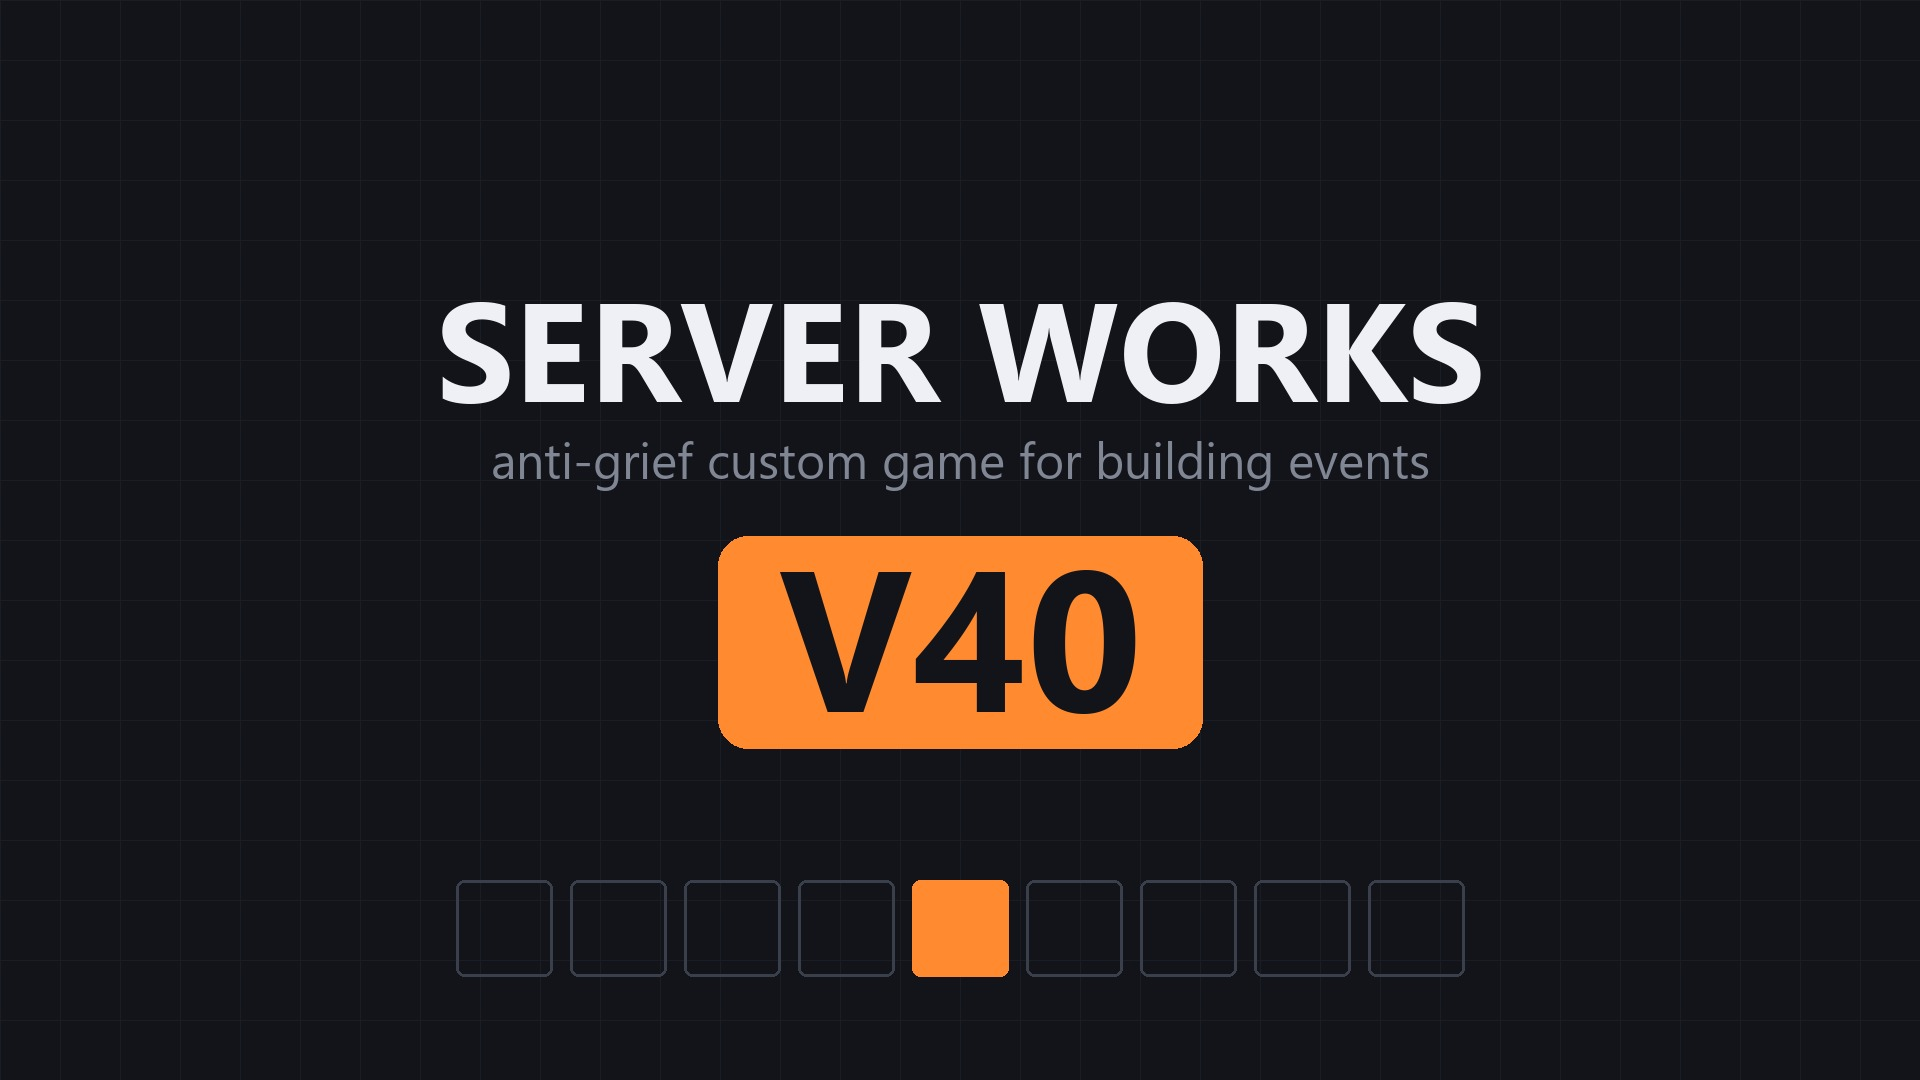
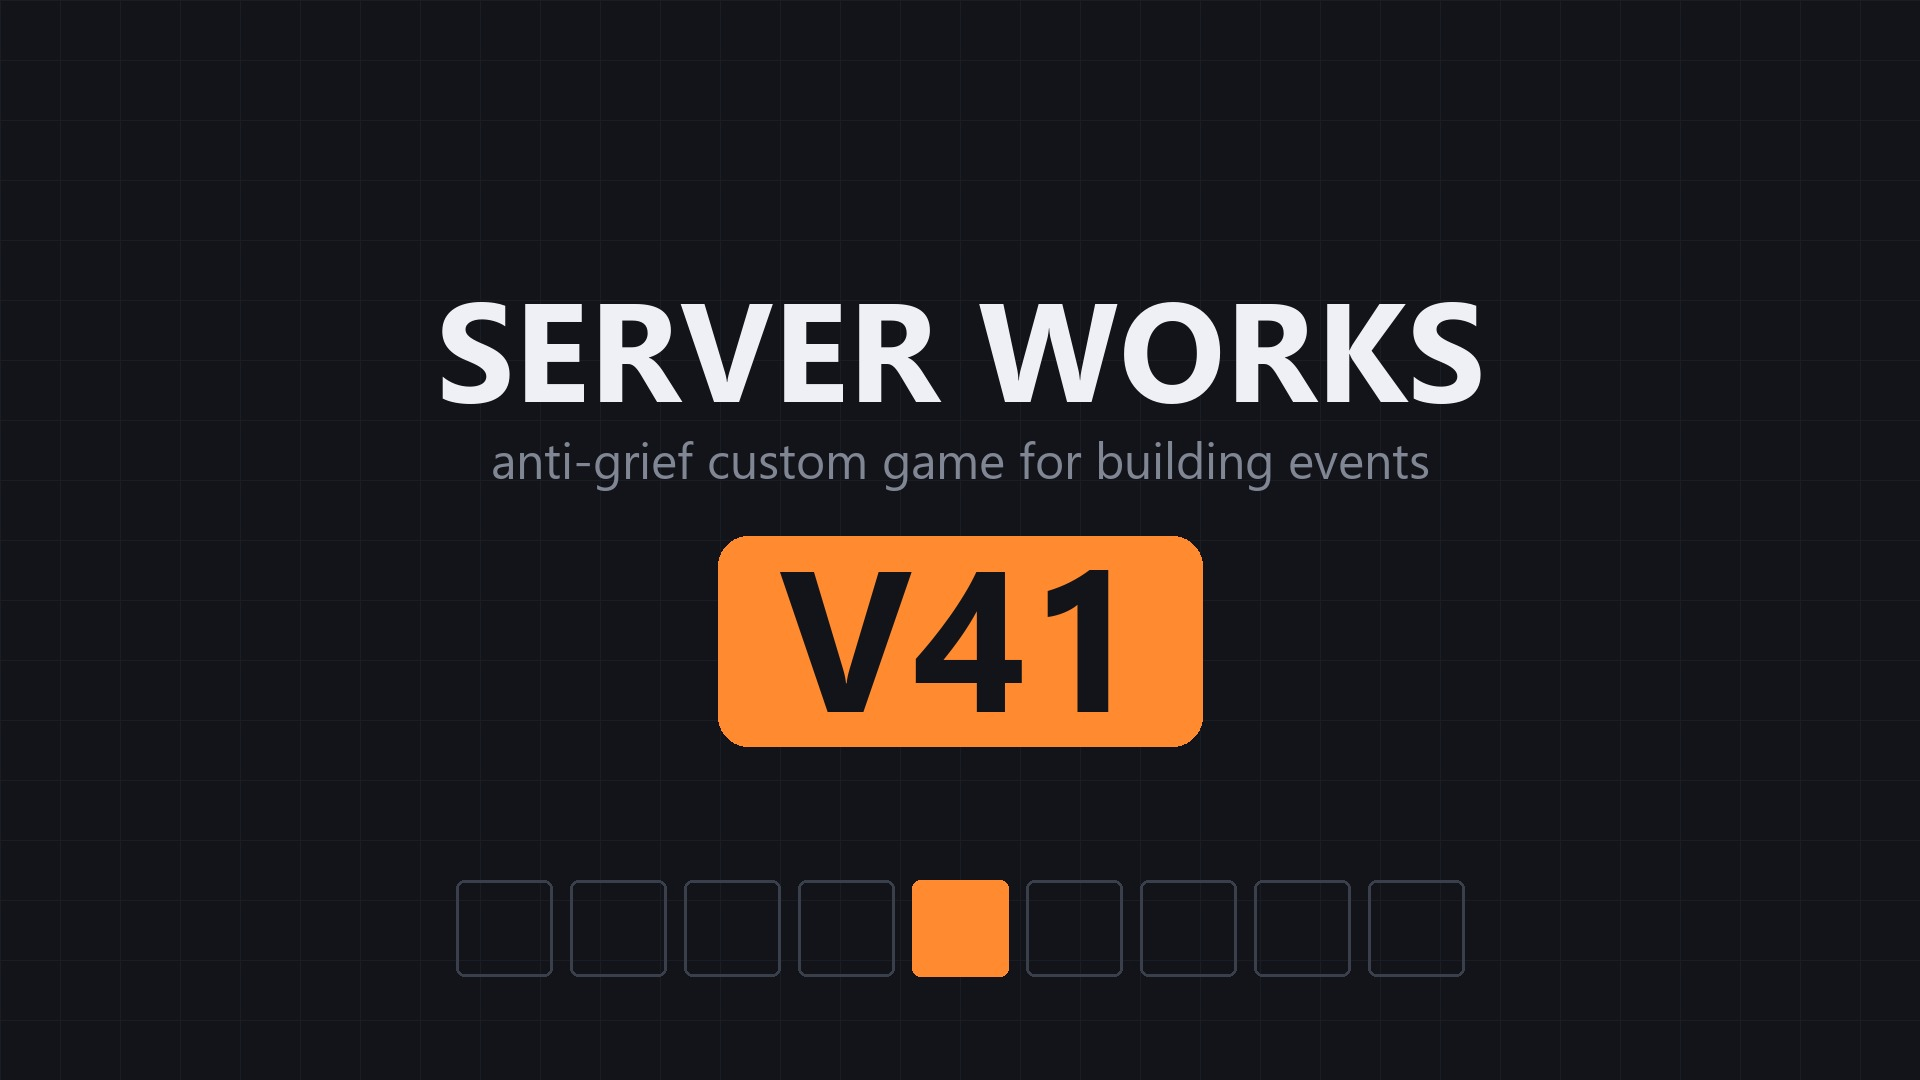
V41: buffer time never ran, and your blocks were mistaken for the city
"whatever the block is metal 2 or concrete it counts as part of the city"

The city's top layer is block z = DECK_Z, world z 1.00..1.25. People build
ON it, so their first block is 1.25..1.50. And shape.worldPosition might be
the minimum corner or the centre -- nothing in the base game settles which.
The threshold was 1.30, so under the min-corner reading a player's first
block sat at exactly 1.25 and was classed as city floor: the cleaner
refused to delete it and CLEAR CITY would have taken it.

Plots.CITY_CEILING is now (DECK_Z + 0.75) * BLOCK = 1.1875, three quarters
of the way up our own layer, which answers the same whichever way
worldPosition is meant. The check tests both readings against all three
materials, and asserts CleanerTool's restated copy has not drifted.

"please make as I said to the buffer time. because it doesnt work this way
yet" -- it did not, and V34's check passed anyway, which is the more useful
half of this.

V34 added the polish profile and pointed buffer at it. The check read the
PROFILES table and asserted polish was paintable, usable and not buildable.
All true. But sv_applyEventPhase sets buildopen = false for every phase
that is not build, and the resolver's blanket fired first and returned
locked. Buffer was identical to prep: the profile was correct and
unreachable.

So buildopen no longer overrides a mode that already denies building
(Protection.sv_modeClosesBuilding), and the check now runs the RESOLVER
[…]

Changed region(s): [[0.375, 0.5194, 0.625, 0.7028]]

diff --git a/dev/test_logic.py b/dev/test_logic.py
@@ -585,6 +585,109 @@ def the_city_floor_is_never_liftable_or_dynamic():
     assert len(returns) >= 5, f"only found {len(returns)} return paths -- parse is wrong"
 
 
+def buffer_time_actually_reaches_the_polish_profile():
+    """Having the right profile is not the same as a body ever getting it.
+
+    REPORTED: "please make as I said to the buffer time. because it doesnt work
+    this way yet."
+
+    V34 added the polish profile and pointed the buffer phase at it, and the
+    check for that passed -- because it only checked the TABLE. What actually
+    happened in game: sv_applyEventPhase sets buildopen = false for every phase
+    that is not build, and the resolver's blanket
+
+        if Settings.Get( "buildopen" ) == false then return false end
+
+    fired FIRST and returned `locked`. Buffer was identical to prep. The polish
+    profile was correct and unreachable.
+
+    So this runs the resolver itself, which is the only thing that could have
+    caught it.
+    """
+    lua = fresh("Layout.lua", "Settings.lua", "Protection.lua", "Plots.lua", "Event.lua")
+    lua.globals().Settings.Sv_Load(False)
+    P, Prot = lua.globals().Plots, lua.globals().Protection
+
+    plots = lua.eval("Plots()")
+    P.sv_onCreate(plots, lua.table_from({"grid": lua.table_from({}), "enabled": True}))
+    plots["enabled"] = True
+    lua.globals().g_swPlots = plots
+
+    prot = lua.eval("Protection()")
+    Prot.sv_onCreate(prot, "open")
+    lua.globals().g_swProtection = prot
+
+    # the resolver, transcribed from World.server_onCreate. If World's copy and
+    # this one ever disagree the check below is worthless, so it is asserted
+    # against the real source afterwards.
+    resolver = lua.execute("""
+        return function( body )
+            if g_swPlots:sv_isScenery( body ) then return "locked" end
+            local zone = g_swPlots:sv_bodyIsOpen( body )
+            if zone == "sweep" then return "sweep" end
+            if Settings.Get( "buildopen" ) == false
+                and not g_swProtection:sv_modeClosesBuilding() then
+                return false
+            end
+            return zone
+        end
+    """)
+    world_src = io.open(SCRIPTS / "World.lua", encoding="utf-8").read()
+    assert "sv_modeClosesBuilding()" in world_src, (
+        "World.lua's resolver no longer consults sv_modeClosesBuilding, so buffer "
+        "time is blanket-locked again")
+
+    Prot.sv_setResolver(prot, resolver)
+
+    # A body standing on a PLOT, made of a player's own blocks.
+    #
+    # Not at the origin: the origin is the plaza, which resolves to "sweep" and
+    # would have made this check pass for entirely the wrong reason. Ask Layout
+    # where a real plot is.
+    bx, by = lua.globals().Layout.plotCentre(plots["layout"], 1)
+    assert bx is not None, "plot 1 does not exist -- the fixture is wrong"
+    block = float(P.BLOCK)
+    make_body = lua.execute("""
+        return function( x, y, z )
+            local b = { worldPosition = { x = x, y = y, z = z } }
+            function b:getShapes() return { { shapeUuid = "not-ours" } } end
+            function b:getWorldAabb()
+                return { x = x, y = y, z = z }, { x = x, y = y, z = z + 1 }
+            end
+            return b
+        end
+    """)
+    body = make_body(float(bx) * block, float(by) * block, 1.5)
+
+    zone = P.sv_bodyIsOpen(plots, body)
+    assert zone is True, (
+        f"the fixture is not standing on a buildable plot -- sv_bodyIsOpen says "
+        f"{zone!r}, so this check would pass for the wrong reason")
+
+    def flags(mode, buildopen):
+        Prot.sv_setMode(prot, mode)
+        lua.globals().Settings.Sv_SetQuiet("buildopen", buildopen)
+        # profileFor returns ( profile, name ), so lupa hands back a tuple
+        got = Prot.sv_profileForTest(prot, body)
+        return got[0] if isinstance(got, tuple) else got
+
+    # buffer: buildopen is false, and the mode must still decide
+    got = flags("polish", False)
+    assert got is not None, "no profile came back at all"
+    assert got["buildable"] is False, "buffer let somebody place a block"
+    assert got["erasable"] is False, "buffer let somebody break a block"
+    assert got["paintable"] is True, (
+        "buffer is not paintable -- the buildopen blanket is locking it again, "
+        "which is the exact bug this check exists for")
+    assert got["connectable"] is True, "buffer cannot rewire a controller"
+    assert got["usable"] is True, "buffer cannot sit in a seat or press a button"
+
+    # and the blanket still works where it should: open mode, host closes building
+    shut = flags("open", False)
+    assert shut["buildable"] is False and shut["paintable"] is False, (
+        "closing building in OPEN mode no longer locks anything")
+
+
 def buffer_time_lets_you_polish_but_not_place_or_break():
     """The buffer phase resolves to a profile that adjusts, never builds.
 
@@ -745,6 +848,60 @@ def an_unclaimed_empty_plot_stays_open():
         {"x": bx * 0.25, "y": by * 0.25, "z": 1.3})})
     assert P.sv_bodyIsOpen(plots, body) is True, (
         "an unclaimed plot with nobody on it should not be locked")
+
+
+def a_players_block_of_our_materials_is_not_the_city():
+    """Metal 2 and concrete are ordinary building blocks. Height decides.
+
+    REPORTED: "whatever the block is metal 2 or concrete it counts as part of the
+    city whatever of it actualy being so."
+
+    The city's top layer is block z = DECK_Z, world z 1.00 to 1.25. A player
+    builds ON it, so their first block is 1.25 to 1.50. The old test allowed
+    anything up to 1.30 -- so if shape.worldPosition means the MINIMUM CORNER
+    rather than the centre, a player's first block sat at exactly 1.25 and was
+    classed as city floor: the cleaner refused to delete it and CLEAR CITY would
+    have taken it.
+
+    Both readings are checked, because which one the engine means is a guess and
+    the threshold is set where the guess stops mattering.
+    """
+    lua, plots = plots_lua()
+    P = lua.globals().Plots
+    B, DECK_Z = float(P.BLOCK), int(P.DECK_Z)
+
+    def shape_at(uuid, z):
+        return lua.table_from({"shapeUuid": uuid,
+                               "worldPosition": lua.table_from({"x": 0.0, "y": 0.0,
+                                                                "z": z})})
+
+    ours = [str(P.CONCRETE), str(P.METAL2), str(P.METAL3)]
+    deck_readings = {"min corner": DECK_Z * B, "centre": (DECK_Z + 0.5) * B}
+    build_readings = {"min corner": (DECK_Z + 1) * B, "centre": (DECK_Z + 1.5) * B}
+
+    for uuid in ours:
+        for how, z in deck_readings.items():
+            assert P.sv_isCityShape(plots, shape_at(uuid, z)) is True, (
+                f"our own deck at z={z} ({how}) was not recognised as city -- "
+                "CLEAR CITY would leave it behind")
+        for how, z in build_readings.items():
+            assert P.sv_isCityShape(plots, shape_at(uuid, z)) is False, (
+                f"a PLAYER's block at z={z} ({how}) was called city floor. It is "
+                "the layer directly above ours and it is theirs to delete.")
+
+    # and a block that is not one of our materials is never city, at any height
+    other = "b63c6440-dfc2-4da7-acdb-3c385080b2e4"
+    for z in list(deck_readings.values()) + list(build_readings.values()):
+        assert P.sv_isCityShape(plots, shape_at(other, z)) is False
+
+    # the cleaner restates the threshold because a tool script may not share the
+    # Game/World environment -- the two numbers must not drift apart
+    tool = io.open(SCRIPTS / "CleanerTool.lua", encoding="utf-8").read()
+    ceiling = float(P.CITY_CEILING)
+    assert f"{ceiling:g}" in tool, (
+        f"CleanerTool does not use the same ceiling ({ceiling:g}) as "
+        "Plots.CITY_CEILING, so the tool and the city would disagree about "
+        "which blocks are deletable")
 
 
 def the_decking_is_safe_but_litter_on_it_is_not():
@@ -1911,6 +2068,8 @@ def main():
     check("plots: public ground belongs to nobody", public_ground_belongs_to_nobody)
     check("plots: spawn is the middle of the map", spawn_is_the_middle_of_the_map)
     check("plots: an empty unclaimed plot stays open", an_unclaimed_empty_plot_stays_open)
+    check("plots: a player's block of our materials is not the city",
+          a_players_block_of_our_materials_is_not_the_city)
     check("plots: the decking is safe but litter standing on it is not",
           the_decking_is_safe_but_litter_on_it_is_not)
     check("plots: the city is many separate bodies",
@@ -1921,6 +2080,8 @@ def main():
           the_cleaner_is_wired_to_the_same_uuid_everywhere)
     check("protection: the city floor is never liftable or dynamic",
           the_city_floor_is_never_liftable_or_dynamic)
+    check("protection: buffer time actually reaches the polish profile",
+          buffer_time_actually_reaches_the_polish_profile)
     check("protection: buffer time polishes but never places or breaks",
           buffer_time_lets_you_polish_but_not_place_or_break)
     check("plots: junk outside the city stays clearable", outside_the_city_is_sweepable)

diff --git a/CLAUDE.md b/CLAUDE.md
@@ -172,6 +172,35 @@ plaza and the pillar. It never bit anyone only because it was a chat command
 nobody ran. The guard is per SHAPE, not per body, because a build welded to a
 plot slab is one body with our concrete in it.
 
+### A profile that exists is not a profile any body receives
+
+**V34 shipped the polish profile with a check that passed and a feature that did
+nothing**, and the shape of that mistake is worth more than the fix.
+
+The check read the PROFILES table and asserted `polish` was paintable, usable and
+not buildable. All true. But `sv_applyEventPhase` sets `buildopen = false` for
+every phase that is not `build`, and the resolver's blanket
+
+    if Settings.Get( "buildopen" ) == false then return false end
+
+fired first and returned `locked`. **Buffer time was identical to prep.** The
+profile was correct and unreachable.
+
+Two rules out of it:
+
+- **`buildopen` is a HOST toggle and must not override a MODE that already
+  denies building.** `Protection.sv_modeClosesBuilding` says whether the current
+  mode's own profile is already `buildable = false`; if it is, the blanket has
+  nothing to add and does real harm.
+- **Check the resolver, not the table.** `dev/test_logic.py` now builds a real
+  `Protection`, a real `Plots`, the actual resolver, and a body standing on a
+  real plot, then asks what that body would be given. Reading a data table can
+  only ever prove the data.
+
+The fixture stands on `Layout.plotCentre( grid, 1 )` and asserts the zone is a
+buildable plot first — the origin is the **plaza**, which resolves to `sweep`,
+and a check written there would have passed for entirely the wrong reason.
+
 ### Protection modes short-circuit, so anything that closes building must set one
 
 `Protection.profileFor` begins:
@@ -380,6 +409,28 @@ starts at 1.25. A build welded to a slab shares the slab's body and is pinned
 with it, which is correct: it is part of the ground now.
 
 A check asserts every return path in `profileFor` goes through the pin.
+
+### Our own materials are ordinary blocks — only HEIGHT tells them apart
+
+Metal 2, metal 3 and concrete are what the city is made of *and* what people
+build with. The only thing separating them is where they sit.
+
+    our top layer   block z = DECK_Z    world z 1.00 .. 1.25
+    their first     block z = DECK_Z+1  world z 1.25 .. 1.50
+
+**And `shape.worldPosition` might be the minimum corner or the centre** — no
+vanilla call settles it. With a threshold of 1.30 the min-corner reading put a
+player's first block at exactly 1.25 and classed it as city floor: the cleaner
+refused to delete it, and CLEAR CITY would have taken it. REPORTED as *"whatever
+the block is metal 2 or concrete it counts as part of the city whatever of it
+actualy being so."*
+
+`Plots.CITY_CEILING` is `( DECK_Z + 0.75 ) * BLOCK` = **1.1875** — three quarters
+of the way up our own layer, which gives the same answer under both readings with
+room on either side. The check tests both.
+
+`CleanerTool` restates the number because a tool script may not share the
+Game/World environment, and a check asserts the two never drift apart.
 
 ### One body's `childs` array IS the weld group
 

diff --git a/docs/CHANGELOG.md b/docs/CHANGELOG.md
@@ -10,6 +10,59 @@ was most of them.
 
 ---
 
+## V41 — buffer time never actually ran, and your blocks were mistaken for the city
+
+### "whatever the block is metal 2 or concrete it counts as part of the city"
+
+Right, and the slop was the cause. The city's top layer is block `z = DECK_Z`,
+world z **1.00 to 1.25**. People build *on* it, so their first block is the layer
+above: **1.25 to 1.50**.
+
+**And `shape.worldPosition` might be the minimum corner or the centre** — nothing
+in the base game settles which. The test allowed anything up to 1.30, so under
+the min-corner reading a player's first block sat at exactly 1.25 and was classed
+as city floor: the cleaner refused to delete it, and CLEAR CITY would have taken
+it with the rest.
+
+`Plots.CITY_CEILING` is now `( DECK_Z + 0.75 ) * BLOCK` = **1.1875** — three
+quarters of the way up our own layer, which gives the same answer whichever way
+`worldPosition` is meant, with room on both sides. The check tests both readings
+against all three materials. `CleanerTool` restates the number, because a tool
+script may not share the Game/World environment, and a check asserts the two
+never drift apart.
+
+### "please make as I said to the buffer time. because it doesnt work this way yet"
+
+It did not, and V34's check passed anyway — which is the more useful half of this.
+
+V34 added the `polish` profile and pointed buffer at it. The check read the
+PROFILES table and asserted polish was paintable, usable and not buildable. All
+true. But `sv_applyEventPhase` sets `buildopen = false` for every phase that is
+not `build`, and the resolver's blanket
+
+    if Settings.Get( "buildopen" ) == false then return false end
+
+fired **first** and returned `locked`. **Buffer time was identical to prep.** The
+profile was correct and completely unreachable.
+
+Two things changed:
+
+- **`buildopen` is a host toggle and must not override a mode that already denies
+  building.** `Protection.sv_modeClosesBuilding` reports whether the current
+  mode's own profile is already `buildable = false`; when it is, the blanket has
+  nothing to add and does real harm.
+- **The check now runs the resolver**, not the table. It builds a real
+  `Protection`, a real `Plots`, the actual resolver and a body standing on a real
+  plot, then asks what that body would be given. Reading a data table can only
+  ever prove the data.
+
+The fixture stands on `Layout.plotCentre( grid, 1 )` and asserts the zone is a
+buildable plot *before* testing anything — the origin is the **plaza**, which
+resolves to `sweep`, and a check written there would have passed for entirely the
+wrong reason. It caught that on the first run.
+
+---
+
 ## V40 — type your own times, and the sweep is gone
 
 ### The sweep is removed
